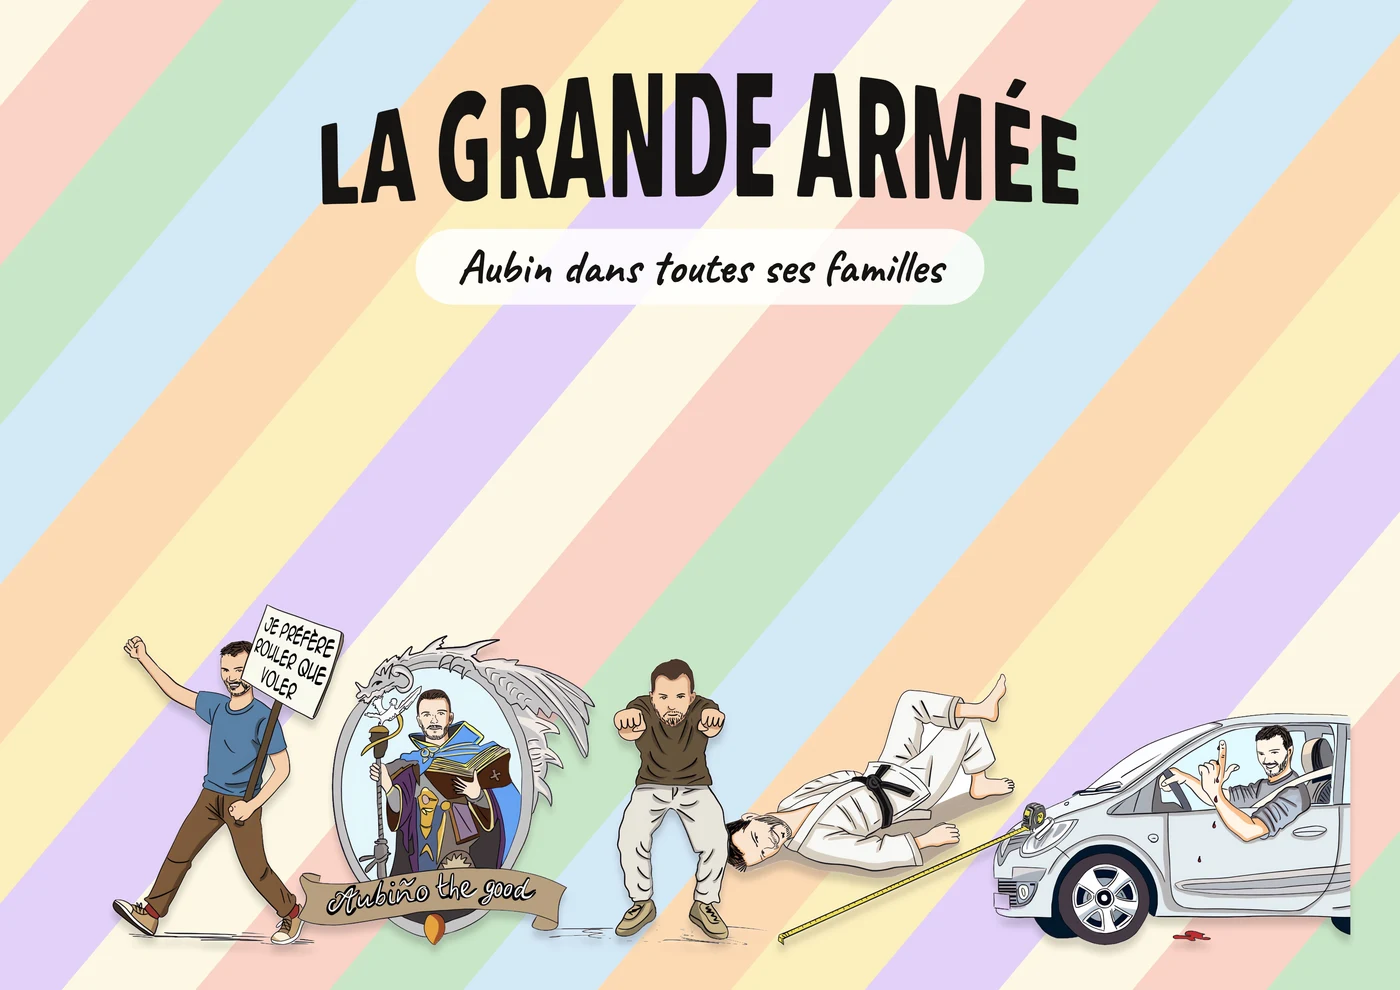
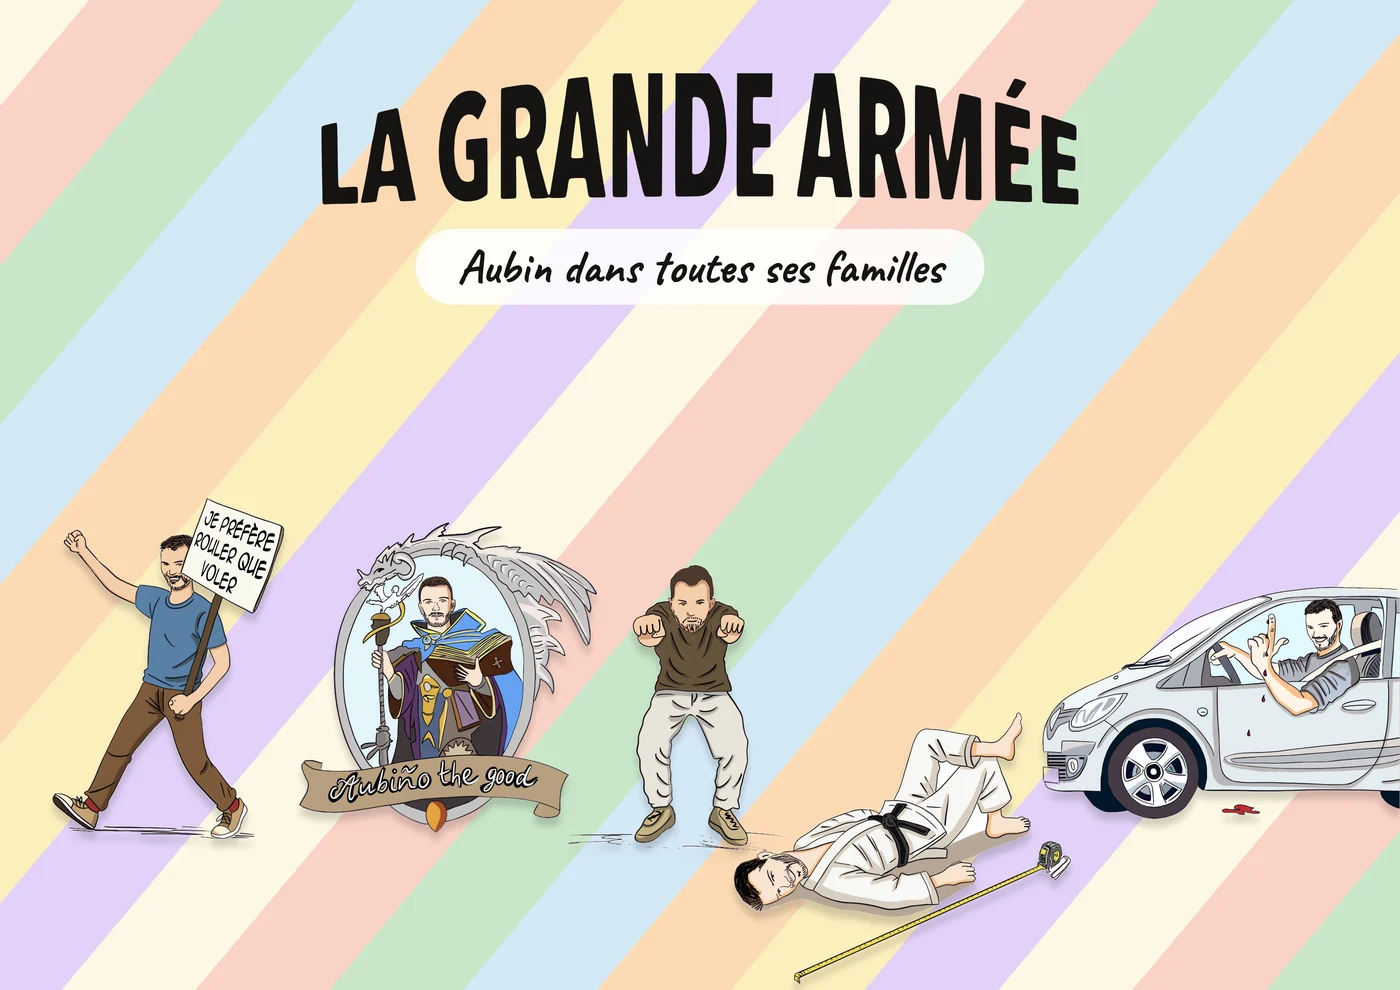
Modèle « Un copain » Aubin : retouche d'Elora ; les retouches marchent aussi pour les affiches par copain

Changed region(s): [[0.0307, 0.5152, 1.0, 1.0], [0.0307, 0.5455, 0.0614, 0.5758]]

diff --git a/sources/affiches/familles.py b/sources/affiches/familles.py
@@ -202,8 +202,19 @@ if __name__ == "__main__":
         sortie = ROOT / "sources/affiches/copains/recettes.json"
         sortie.parent.mkdir(exist_ok=True)
         recettes = json.loads(sortie.read_text()) if sortie.exists() else {}
+        looks_fam = {l["cutout"]: l["family"] for l in looks if l["cutout"]}
         for slug in cles:
-            recettes[slug] = composer(None, slug)
+            if f"copain-{slug}" not in PLACEMENTS:
+                recettes[slug] = composer(None, slug)
+                continue
+            # Retouche d'Elora (« Copier pour Claude ») : ses positions, l'en-tête habituel du copain
+            prenom = PRENOMS.get(slug, slug)
+            recettes[slug] = dict(
+                v=1, orientation="paysage", frame="sans", background="bandes",
+                subtitle=f"{prenom} dans toutes ses familles", title="La Grande Armée", showSubtitle=True, showBrand=False,
+                members=[dict(name=prenom, family=FAMILLE_DE.get(looks_fam[m["src"]], looks_fam[m["src"]]), src=m["src"], p=m["p"])
+                         for m in PLACEMENTS[f"copain-{slug}"]],
+            )
     else:
         sortie = ROOT / "sources/affiches/familles/recettes.json"
         recettes = json.loads(sortie.read_text()) if sortie.exists() else {}
